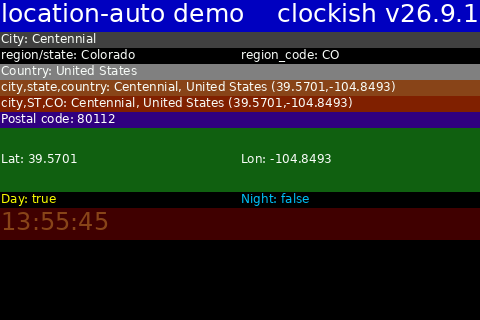
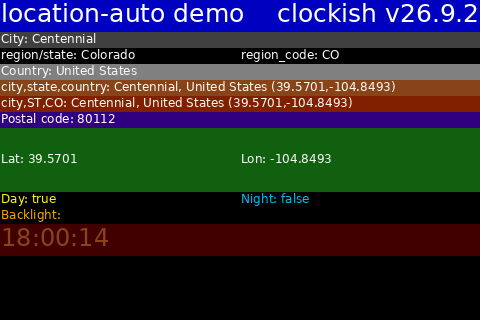
Add a backlight fact source
fact: backlight renders the current level as a whole percentage of the
configured min..max span -- min is 0%, max is 100%. current_value() reads
the level back from the device via _READERS, falling back to the last
written value, and the panel renders empty with no backlight configured.

debug, sensor-test and the four location sample configs show the new fact,
with previews regenerated. debug pays for its row out of the debug panel's
height so the portrait column still fits.

Changed region(s): [[0.0, 0.625, 1.0, 0.8125], [0.9688, 0.0, 1.0, 0.0625]]

diff --git a/tests/test_backlight.py b/tests/test_backlight.py
@@ -5,6 +5,7 @@ Tests for the pure brightness-resolution functions in clockish/backlight.py:
   - resolve_sun_curve_value() -- sun-following `curve: sun` cosine ease
   - _apply(cfg, now=...) -- the `now` injection point the simulated-day
     runner (scripts/backlight_hardware_test.py) drives a whole day through
+  - current_percent() -- the `backlight` fact source's value
 """
 import datetime
 
@@ -238,3 +239,79 @@ class TestApplyNowInjection:
         monkeypatch.setattr(backlight, '_get_sun_times', lambda: (SUNRISE, SUNSET))
         solar_noon = SUNRISE + (SUNSET - SUNRISE) / 2
         assert backlight._resolve_value(self.CURVE_CFG, now=solar_noon) == 255
+
+
+class TestCurrentPercent:
+    """`fact: backlight` -- where the panel's percentage comes from."""
+
+    CFG = {'method': 'sysfs', 'device': 'test-dev', 'min': 2, 'max': 255}
+
+    @pytest.fixture
+    def active(self, monkeypatch):
+        """Pretend start_backlight() ran with CFG, with a readable device."""
+        level = {'value': 129}
+        monkeypatch.setattr(backlight, '_active_cfg', self.CFG)
+        monkeypatch.setattr(backlight, '_last_written_value', None)
+        monkeypatch.setitem(backlight._READERS, 'sysfs', lambda device: level['value'])
+        return level
+
+    def test_midpoint_of_the_configured_span(self, active):
+        # 129 sits halfway between min 2 and max 255, not halfway up 0..255
+        assert backlight.current_percent() == '50%'
+
+    def test_min_is_zero_percent(self, active):
+        active['value'] = 2
+        assert backlight.current_percent() == '0%'
+
+    def test_max_is_hundred_percent(self, active):
+        active['value'] = 255
+        assert backlight.current_percent() == '100%'
+
+    def test_no_decimal_places(self, active):
+        active['value'] = 100
+        assert backlight.current_percent() == '39%'  # 98/253 = 38.7%
+
+    def test_below_min_clamps_to_zero(self, active):
+        active['value'] = 0  # e.g. off_value, or set externally
+        assert backlight.current_percent() == '0%'
+
+    def test_above_max_clamps_to_hundred(self, active):
+        active['value'] = 300
+        assert backlight.current_percent() == '100%'
+
+    def test_unreadable_device_falls_back_to_last_written(self, monkeypatch):
+        monkeypatch.setattr(backlight, '_active_cfg', self.CFG)
+        monkeypatch.setattr(backlight, '_last_written_value', 255)
+        monkeypatch.setitem(backlight._READERS, 'sysfs', lambda device: None)
+        assert backlight.current_percent() == '100%'
+
+    def test_unknown_level_is_none(self, monkeypatch):
+        monkeypatch.setattr(backlight, '_active_cfg', self.CFG)
+        monkeypatch.setattr(backlight, '_last_written_value', None)
+        monkeypatch.setitem(backlight._READERS, 'sysfs', lambda device: None)
+        assert backlight.current_percent() is None
+
+    def test_no_backlight_configured_is_none(self, monkeypatch):
+        monkeypatch.setattr(backlight, '_active_cfg', None)
+        assert backlight.current_percent() is None
+        assert backlight.current_value() is None
+
+    def test_zero_width_span_is_none(self, monkeypatch):
+        monkeypatch.setattr(backlight, '_active_cfg', {'method': 'sysfs', 'min': 40, 'max': 40})
+        monkeypatch.setitem(backlight._READERS, 'sysfs', lambda device: 40)
+        assert backlight.current_percent() is None
+
+    def test_start_and_stop_track_the_active_config(self, monkeypatch):
+        written = []
+        monkeypatch.setitem(backlight._METHODS, 'sysfs',
+                            lambda device, value: written.append(value) or True)
+        monkeypatch.setattr(backlight, '_last_written_value', None)
+        cfg = dict(self.CFG, schedule=[{'name': 'all', 'start': '00:00',
+                                        'end': '23:59', 'value': 129}])
+        backlight.start_backlight({'backlight': cfg})
+        try:
+            assert backlight._active_cfg is cfg
+        finally:
+            backlight.stop_backlight()
+        assert backlight._active_cfg is None
+        assert backlight.current_percent() is None

diff --git a/src/clockish/backlight.py b/src/clockish/backlight.py
@@ -54,6 +54,11 @@ _CHECK_INTERVAL_SECS = 600  # 10 minutes -- see AGENTS.md, no need for finer gra
 TWILIGHT_MINUTES = 50
 PEAK_FRACTION = 0.25
 
+#: The `backlight:` block currently driving the display, set by
+#: start_backlight(). Kept so current_percent() can report against the same
+#: min/max/device the scheduler is writing to.
+_active_cfg: dict | None = None
+
 _backlight_thread: threading.Thread | None = None
 _backlight_stop_event = threading.Event()
 _backlight_wake_event = threading.Event()
@@ -176,9 +181,61 @@ def _write_sysfs(device: str, value: int) -> bool:
         return False
 
 
+def _read_sysfs(device: str) -> int | None:
+    """Read /sys/class/backlight/<device>/brightness. None if unreadable."""
+    try:
+        with open(f"/sys/class/backlight/{device}/brightness") as f:
+            return int(f.read().strip())
+    except (OSError, ValueError):
+        return None
+
+
 _METHODS = {
     'sysfs': _write_sysfs,
 }
+
+_READERS = {
+    'sysfs': _read_sysfs,
+}
+
+
+def current_value() -> int | None:
+    """The brightness the hardware is actually at, or None if unknown.
+
+    Read back from the device rather than trusting `_last_written_value`, so a
+    level changed outside clockish (someone echoing into sysfs) is reported
+    honestly. Falls back to the last written value when the device can't be
+    read -- and to None when no backlight is configured at all.
+    """
+    cfg = _active_cfg
+    if not cfg:
+        return None
+    read_fn = _READERS.get(cfg.get('method'))
+    value = read_fn(cfg.get('device', '')) if read_fn else None
+    return value if value is not None else _last_written_value
+
+
+def current_percent() -> str | None:
+    """Current brightness as a whole percentage of the configured min..max span.
+
+    min..max is the useful range the display was configured for, not 0..255, so
+    this answers "how far up its own range is the panel" -- min reads 0%, max
+    reads 100%. Values outside the span (set externally, or an `off_value`
+    below min) clamp rather than reporting a negative or >100%.
+
+    Returns None when there is no backlight config or the level is unknown;
+    the fact panel renders that as an empty string.
+    """
+    cfg = _active_cfg
+    value = current_value()
+    if not cfg or value is None:
+        return None
+    min_, max_ = cfg.get('min', 0), cfg.get('max', 255)
+    span = max_ - min_
+    if span <= 0:
+        return None
+    pct = round((value - min_) / span * 100)
+    return f"{min(max(pct, 0), 100)}%"
 
 
 def _resolve_value(cfg: dict, now: datetime.datetime | None = None) -> int:
@@ -256,13 +313,14 @@ def start_backlight(display_cfg: dict, get_sun_times: GetSunTimes | None = None)
     `get_sun_times` is only needed for `curve: sun` configs -- see the
     module docstring for why it's a callable instead of an import.
     """
-    global _backlight_thread, _get_sun_times
+    global _backlight_thread, _get_sun_times, _active_cfg
     cfg = display_cfg.get('backlight')
     if not cfg:
         return
 
     _get_sun_times = get_sun_times
-    stop_backlight()
+    stop_backlight()          # clears _active_cfg; re-set it below
+    _active_cfg = cfg
     _backlight_stop_event.clear()
     _backlight_wake_event.clear()
 
@@ -274,7 +332,8 @@ def start_backlight(display_cfg: dict, get_sun_times: GetSunTimes | None = None)
 
 
 def stop_backlight() -> None:
-    global _backlight_thread
+    global _backlight_thread, _active_cfg
+    _active_cfg = None
     try:
         _backlight_stop_event.set()
         _backlight_wake_event.set()  # wake to let it exit quickly

diff --git a/src/clockish/display.py b/src/clockish/display.py
@@ -673,6 +673,7 @@ def _get_fact(source: str, options: dict | None = None) -> str:
         'wifi_signal':  lambda: get_wifi_info()[2],
         'wifi_quality': lambda: get_wifi_info()[3],
         'wifi_all':     lambda: "  ".join(get_wifi_info()),
+        'backlight':    lambda: backlight.current_percent() or '',
         # system location + day/night facts
         'location':       get_system_location,
         'daytime':        get_daytime,
@@ -697,6 +698,7 @@ _FACT_DEFAULT_LABELS: dict[str, str] = {
     'ntp_upstream': 'ntp sources ',
     'ntp_all':      'ntp ',
     'wireguard':    'wg ',
+    'backlight':    'bl ',
     'wifi_status':  'wifi ',
     'wifi_ssid':    'ssid ',
     'wifi_signal':  'signal ',

diff --git a/src/clockish/config_validator.py b/src/clockish/config_validator.py
@@ -124,7 +124,7 @@ KNOWN_FACT_SOURCES: frozenset[str] = frozenset({
     'ip', 'hostname', 'uptime', 'version', 'config_file',
     'cpu', 'cpu_load', 'mem', 'disk', 'temp',
     'ntp_status', 'ntp_upstream', 'ntp_all',
-    'wireguard',
+    'wireguard', 'backlight',
     'wifi_status', 'wifi_ssid', 'wifi_signal', 'wifi_quality', 'wifi_all',
     # new built-in facts
     'location', 'daytime', 'nighttime',

diff --git a/AGENTS.md b/AGENTS.md
@@ -285,6 +285,7 @@ background-thread-fetched raw value:
 | `ntp_status`   | synchronized/unsync (chronyc/timedatectl)                        |
 | `ntp_upstream` | number of upstream sources                                       |
 | `wireguard`    | wg status (stubbed if no wg)                                     |
+| `backlight`    | current brightness as a whole % of the configured `min`..`max`   |
 | `wifi_*`       | from `get_wifi_info()` tuple (status, ssid, signal_dbm, quality) |
 | `location`     | resolved location as "City, Country (lat,lon)"; empty when disabled |
 | `location.*`   | one field of it (`city`, `region`, `country_code`, `lat`, ...)    |
@@ -486,6 +487,17 @@ add a bare `off:`/`on:`/`yes:`/`no:` key to any clockish config schema -- quote 
 - `config_validator.py` validates the whole block: required keys, `method` enum, 0-255 ranges,
   `min <= max`, exactly one of `schedule`/`curve` present, `curve` enum, `HH:MM` format, and
   schedule-entry overlap (midnight-wrap aware).
+
+**`fact: backlight`**: `current_percent()` reports where the panel sits in its own configured
+`min`..`max` span -- `min` is 0%, `max` is 100%, whole numbers only (`min: 2`, `max: 255`, level
+129 -> `50%`). Deliberately NOT a percentage of 0..255: the useful range is what was configured,
+and a display whose `min: 40` is its dimmest legible level should read 0% there, not 16%.
+`current_value()` reads the level back from the device (`_READERS`, the read-side twin of
+`_METHODS`) rather than trusting `_last_written_value`, so a level changed outside clockish shows
+up honestly; it falls back to the last written value when the device can't be read. Levels outside
+the span clamp to 0/100%. The panel renders empty when no `backlight:` block is configured --
+`_active_cfg` (set by `start_backlight()`, cleared by `stop_backlight()`) is what the fact reads
+min/max/device from.
 
 **Verified against real hardware** (SSH to a Pi with a `/sys/class/backlight/10-0045/brightness`
 DSI panel): `_write_sysfs()` and the full `start_backlight()`/`stop_backlight()` lifecycle both
